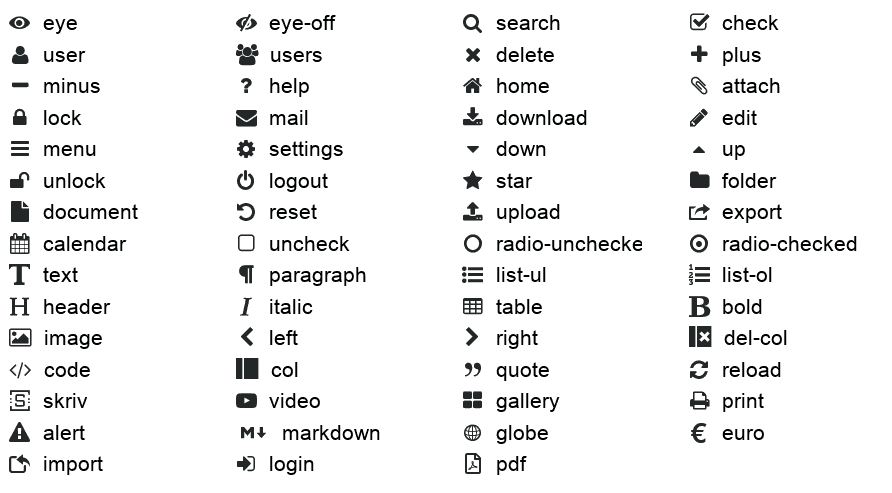
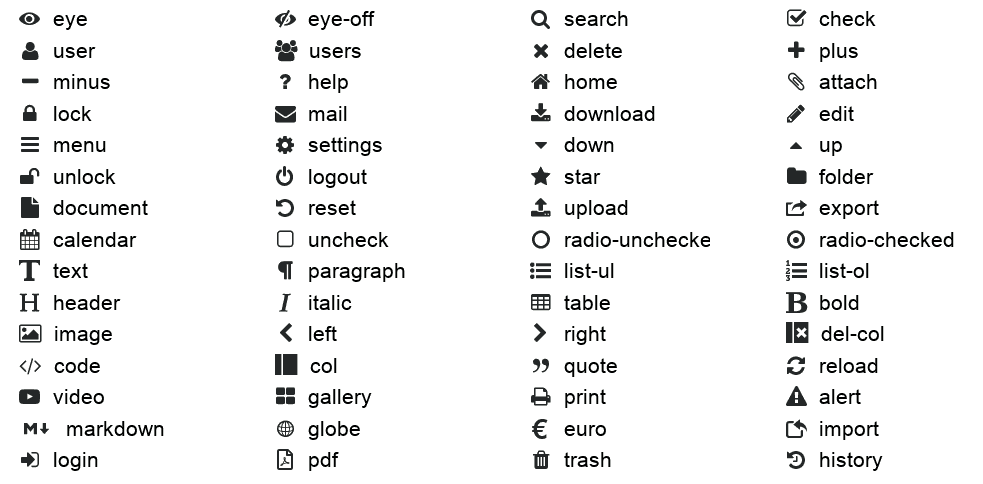
Fix link to internal images, update shapes list
FossilOrigin-Name: 9af01d1f0fa3b9c26b7d75df5b76203f596913e5fa83a161e897d77e39d1bccf

diff --git a/src/include/lib/Paheko/Web/Render/Extensions.php b/src/include/lib/Paheko/Web/Render/Extensions.php
@@ -8,7 +8,7 @@ use Paheko\Plugins;
 use Paheko\Utils;
 use KD2\SkrivLite;
 
-use const Paheko\ROOT;
+use const Paheko\{ADMIN_URL, ROOT};
 
 /**
  * Common extensions between Skriv and Markdown
@@ -74,6 +74,11 @@ class Extensions
 			}
 
 			$body = preg_replace(';<div\s+class="nav">(?:(?!</div>).)*?</div>;s', '', $body);
+
+			// Replace images
+			$body = preg_replace(';src="(?!https?:|/);', 'src="' . ADMIN_URL . 'static/doc/', $body);
+
+			// Replace links
 			$body = preg_replace_callback('!href="([a-z_-]+)\.html!',
 				function($match) use ($args, $replace) {
 					$url = $match[1];
